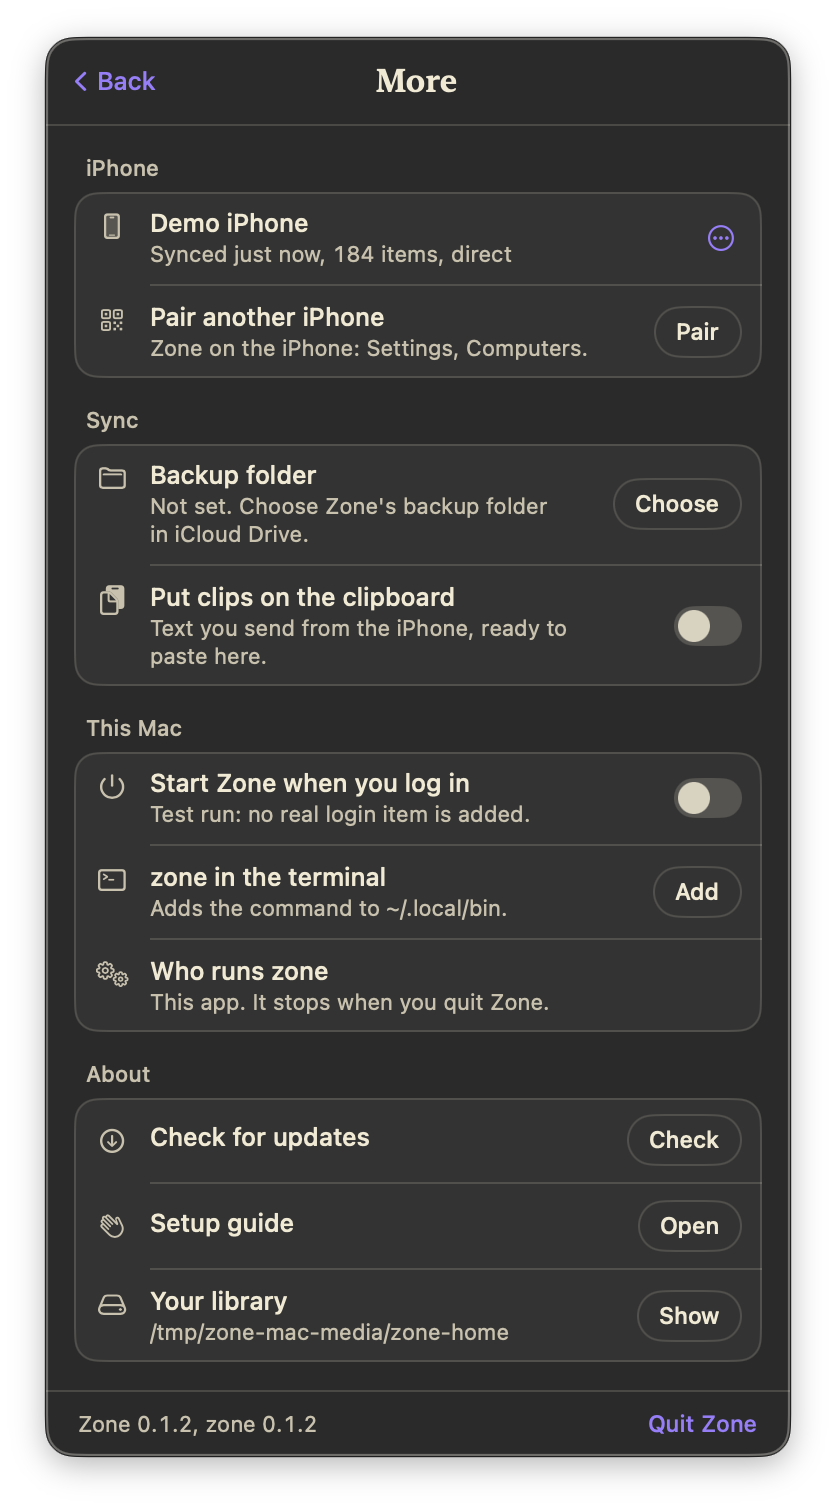
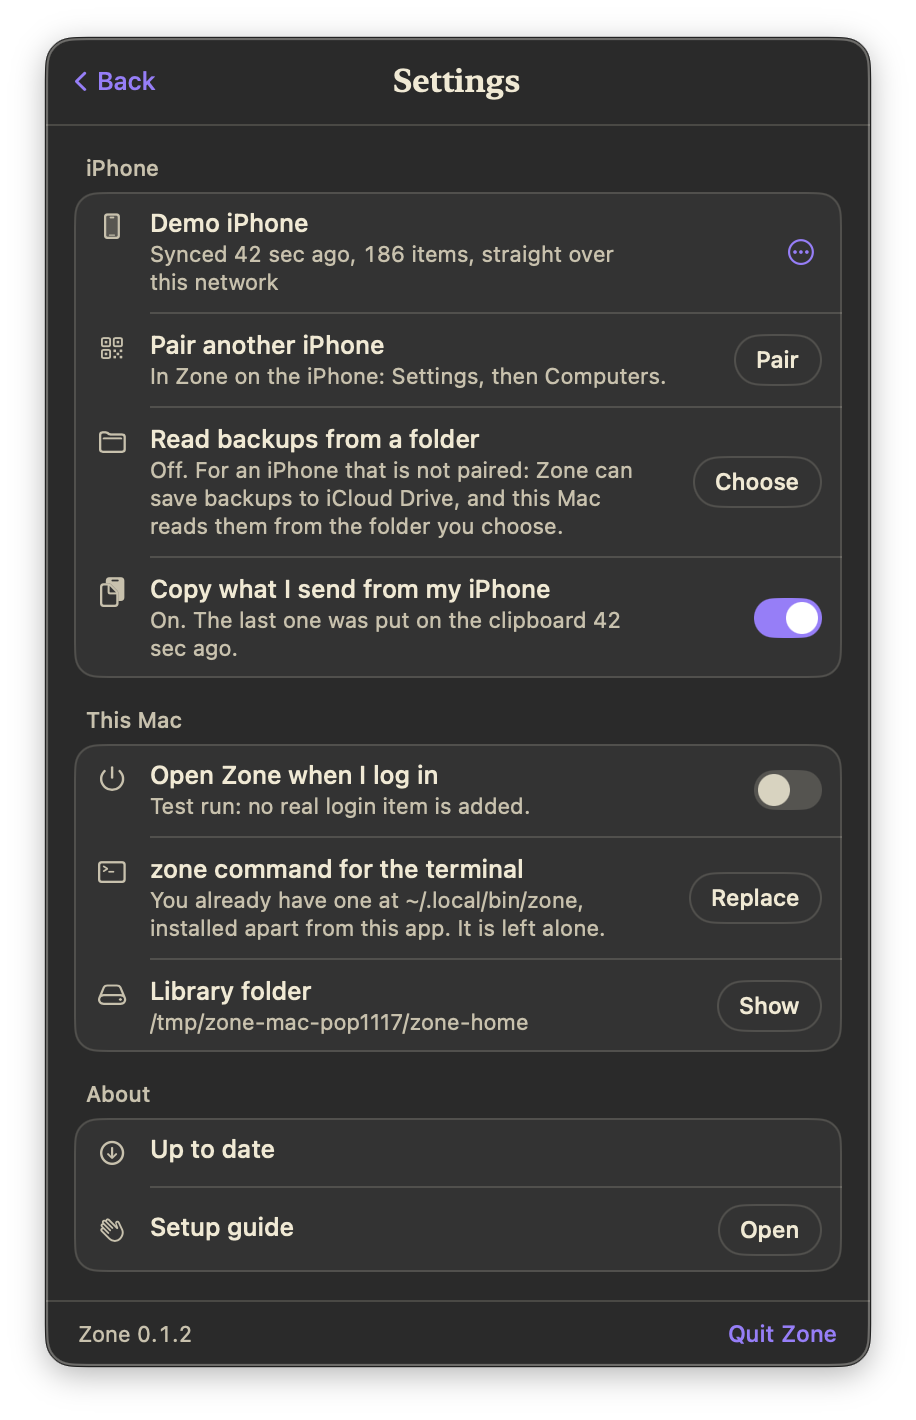
Zone for Mac: the README and its pictures follow the new menu, the guide says the same words as Settings, and a test run can stand in for GitHub
The guide's last page asks in Settings' words (open Zone when I log in, copy what I send from my iPhone). dev-sandbox.sh start --update-feed points the update check at an address that answers for GitHub, which is how "0.1.3 is available" and "could not check" were looked at.

diff --git a/mac/Zone/WelcomeView.swift b/mac/Zone/WelcomeView.swift
@@ -334,13 +334,13 @@ private struct DoneStep: View {
             StepHeading(
                 eyebrow: "All set",
                 title: "Zone lives in your menu bar",
-                detail: "Click the Z at the top of your screen to see what arrived, pair another phone or connect an agent.",
+                detail: "Click the Z at the top of your screen for your last meeting, your notes and the latest things you said.",
                 alignment: .center
             )
             .frame(maxWidth: 520)
             VStack(spacing: 0) {
                 Toggle(isOn: $startAtLogin) {
-                    option("power", "Start Zone when you log in", "So your phone can always reach this Mac.")
+                    option("power", "Open Zone when I log in", "So your iPhone can sync whenever this Mac is on.")
                 }
                 .toggleStyle(ZoneToggleStyle())
                 .padding(.vertical, 10)
@@ -356,7 +356,7 @@ private struct DoneStep: View {
                 if model.hasClips {
                     Hairline().padding(.leading, 44)
                     Toggle(isOn: $copyClips) {
-                        option("doc.on.clipboard", "Copy to this Mac's clipboard when a clip arrives", "Text you send from Zone on your iPhone, ready to paste here.")
+                        option("doc.on.clipboard", "Copy what I send from my iPhone", "Text you send to this Mac from Zone on the iPhone goes on the clipboard, ready to paste.")
                     }
                     .toggleStyle(ZoneToggleStyle())
                     .disabled(model.clipboardCopy?.available == false)

diff --git a/mac/README.md b/mac/README.md
@@ -4,7 +4,7 @@ A menu bar app that is the whole install of [zone](../README.md) on a Mac. Downl
 open it, scan one code with your iPhone. No terminal.
 
 <p align="center">
-  <img src="../docs/media/mac-popover.png" width="372" alt="The Zone menu bar window: synced just now, a clip with a Copy button, the latest dictations, and four buttons">
+  <img src="../docs/media/mac-popover.png" width="412" alt="The Zone menu bar window: which phone synced and when, a clip with a Copy button, the last meeting, three open notes, the latest items by kind, and four buttons">
 </p>
 
 It carries the `zone` program inside it and runs it for you. Everything zone does (receive
@@ -25,53 +25,93 @@ dot: zone is not running. An exclamation mark: something needs you.
   <img src="../docs/media/mac-menubar.png" width="600" alt="The menu bar icon's four faces on a dark and a light menu bar: running, receiving, not running, needs you">
 </p>
 
-**Click it.** The window keeps to what you open it for.
+**Click it.** The window is a place to work from, and says each thing once.
 
-- One line at the top: "Synced 2 min ago", "Receiving" while something arrives, "This
-  network only" while zone reconnects to the relay. Point at it for the rest: each phone,
-  how its last sync travelled, and how many items the library holds.
+- One line at the top: which phone synced last and when ("Demo iPhone, synced 2 min ago"),
+  "Receiving" while something arrives. Click it for the rest: how the last sync travelled,
+  what the library holds, and the last few things that happened (a clip that zone put on the
+  clipboard says ", copied"). Beside it, the eye (**Hide text**) covers the words for when
+  you are sharing your screen (it stays on until you turn it off, here and in the floating
+  window), and the window icon opens the floating window.
 - The newest clip, for a quarter of an hour after it arrives (see Clips below).
-- The latest four items. Click one to copy it. The eye beside them (**Hide text**) covers
-  the words, for when you are sharing your screen (it stays on until you turn it off, here
-  and in the floating window). The window icon beside it opens the floating window.
-- History, Flash, Agents and More. Agents: every AI app on this Mac with a switch, and under
-  each connected one a line that says what it may read. Click the line to choose:
-  everything, notes and meetings only, or all but keyboard dictations (what you typed by
-  voice into other apps). More: each paired phone (when it last synced, how many items,
-  direct or through the relay, and a menu to ask it to send everything again or forget it),
-  pairing another iPhone, the backup folder, clips on the clipboard, start at login, the
-  `zone` command, who runs zone, updates, the setup guide, and Quit.
+- Your last meeting: its title, when, how long. Click it and its transcript opens in History.
+- The newest three notes nobody has marked Done (on the history page, or an agent with
+  `mark_processed`), and a link to all of them in History.
+- The latest things you said, nine to twelve rows at a time and more on a scroll. Above them
+  All, Notes, Meetings, Dictations and Clips, each with how many the library holds: click one
+  to see only that kind. A row is one line with an icon for its kind; click it to copy, and
+  the time gives way to "Copied". What already has a place above (the clip, the meeting, the
+  three notes) is not listed a second time under All.
+- History, Flash, Agents and Settings.
 - Only when something needs you, a line at the top says what: no iPhone paired yet
   (**Pair**), something macOS has to allow (**Allow**, see below), or zone that keeps
   stopping (**Start again**, **Show the log**).
 
+**History, in a Zone window.** zone's history page, served by zone on this Mac, opens in a
+window of the app (**Open in browser** shows it in the browser instead). That is what lets
+the menu open it at a place: a meeting (`#/meeting/<id>`), the notes (`#/notes`). The links
+are made in one function, `PageRoutes` in `ZoneKit/Menu.swift`.
+
+**Agents.** Every AI app on this Mac once, however many profiles it has ("Claude Code: 7
+profiles, reads everything"), with a switch. Click its name for each profile as `zone mcp
+status` reports it: connected, starts another copy of zone, removed by you, not connected.
+Click the line under its name to choose what it may read: everything, notes and meetings
+only, or all but keyboard dictations (what you typed by voice into other apps). The apps
+that are not connected fold under one line.
+
+**Test** does not take zone's word for it. It reads from the app's own settings file which
+program and arguments that app would start (`AgentConfig`: JSON with or without comments,
+Codex's TOML, Hermes's YAML), starts exactly that with nothing of zone's in the environment,
+and asks it what every MCP client asks first (`initialize`, then `tools/list`). The answer
+is "Answers: 6 tools", or what went wrong in zone's own words. "zone on this Mac" at the
+foot is the same check with no app in between.
+
+An app whose entry starts a different copy of zone than the one that runs on this Mac says
+so, with **Use this one**: that is `zone mcp install <app>`, which points it at the running
+one and keeps what it may read. The zone that "runs on this Mac" is this app's own copy,
+unless a login item from the command line runs zone: then it is that program, so the panel
+says what `zone mcp status` says in a terminal.
+
+**Settings.** Each paired phone (when it last synced, how many items, and a menu to ask it to
+send everything again or forget it), pairing another, reading backups from a folder, copying
+what you send from the iPhone, opening Zone at login, the `zone` command, the library
+folder, updates, the setup guide, and Quit. The version is at the foot, once. Updates are
+one line: "Up to date", or "0.1.3 is available" with **Update** (which opens the download
+page), or "Could not check for updates" with **Try again**. A build that is newer than the
+latest published release is up to date. When GitHub's API is at its hourly limit for the
+network, the app asks GitHub's website instead.
+
 <p align="center">
-  <img src="../docs/media/mac-popover-more.png" width="372" alt="The More page: the paired iPhone, pairing another, the backup folder, clips on the clipboard, this Mac and updates">
+  <img src="../docs/media/mac-popover-more.png" width="412" alt="Settings: the paired iPhone, pairing another, reading backups from a folder, copying what you send from the iPhone, this Mac and updates">
   &nbsp;
-  <img src="../docs/media/mac-popover-hidden.png" width="372" alt="The main window with Hide text on: the words are covered">
+  <img src="../docs/media/mac-popover-hidden.png" width="412" alt="The main window with Hide text on: the words are covered">
 </p>
 <p align="center">
-  <img src="../docs/media/mac-agents-choose.png" width="372" alt="The Agents page: five AI apps with switches, and the three choices of what one may read">
+  <img src="../docs/media/mac-agents-choose.png" width="412" alt="The Agents page: five AI apps, sixteen profiles, each tested and answering with six tools, and the apps that are not connected folded under one line">
 </p>
 
 **Clips.** A clip is text you send from Zone on your iPhone to this Mac on purpose: what
 was on the phone's clipboard, something shared from another app, or something typed. When
 one arrives the Z pulses the way it does for anything arriving, and the clip leads the
 window: which phone, when, one line of it, and a Copy button. Clips also sit in the latest
-items with their own label (the one in the card is not listed twice), and the floating
-window has a filter for them. Hide text covers
-a clip like everything else.
+items with their own icon and their own kind above the list (the one in the card is not
+listed twice), and the floating window has a filter for them. Hide text covers a clip like
+everything else.
 
 <p align="center">
   <img src="../docs/media/mac-clip.gif" width="372" alt="A clip arrives: the window says Receiving and the clip appears at the top with a Copy button">
 </p>
 
-More > "Put clips on the clipboard" is `zone clipboard on`: with it
-on, a clip that was sent in the last two minutes is ready to paste here by the time you
-look up. It is off until you turn it on (the setup guide asks once), and nothing else ever
-touches your clipboard. The app shows no notification and asks for no permission.
+Settings > "Copy what I send from my iPhone" is `zone clipboard on`: with it on, a clip that
+was sent in the last two minutes is ready to paste here by the time you look up. The switch
+shows what zone itself reports, and once it is on the line under it says how to try it, and
+after that when the last clip was put on the clipboard (or that it could not be). It is off
+until you turn it on (the setup guide asks once), and nothing else ever touches your
+clipboard. The app shows no notification and asks for no permission. This was run end to
+end on 2026-11-17 with a throwaway zone under a throwaway launchd agent, the way the login
+item runs: a clip from the stand-in phone came back from `pbpaste`.
 
-**The floating window.** The window icon beside the latest items opens a small window that stays
+**The floating window.** The window icon at the top of the menu opens a small window that stays
 above your other windows and shows what you said as it arrives, with a search over the
 whole library and filters for dictations, notes and meetings. Clicking a row copies it
 without taking the keyboard away from the app you are working in.
@@ -94,10 +134,10 @@ and the version.
   <img src="../docs/media/mac-flash.png" width="700" alt="The Flash window: Zone's bar with Open in browser, and zone's Flash page with its three steps and the camera off">
 </p>
 
-**The setup guide**, the first time you open the app (and any time later, under More):
+**The setup guide**, the first time you open the app (and any time later, under Settings):
 welcome, get Zone on your iPhone, pair, connect your AI agents, done. The last page asks
-three things: start at login, add the `zone` command, and put clips on the clipboard as
-they arrive. Every step can be skipped, and closing the window half way keeps your place.
+three things: open Zone at login, add the `zone` command, and copy what you send from the
+iPhone. Every step can be skipped, and closing the window half way keeps your place.
 
 <p align="center">
   <img src="../docs/media/mac-welcome.png" width="640" alt="The welcome window">
@@ -140,7 +180,7 @@ Whether macOS lets Zone reach the local network has no API: the app asks the way
 suggests, with a UDP connection to another address on this network that sends nothing (it is
 ready at once when allowed, held back as "local network denied" when not). It does that only
 when it runs zone itself, first right after a pairing (the moment macOS's question makes
-sense), and after that every five minutes and when More opens. Camera access is read from
+sense), and after that every five minutes and when Settings opens. Camera access is read from
 AVFoundation and TCC's own preflight, the Files & Folders answer by reading the backup folder,
 and Login Items from `SMAppService`.
 
@@ -150,7 +190,7 @@ and Login Items from `SMAppService`.
 2. Open Zone. The guide walks through the rest.
 
 Pairing with a computer arrives with Zone's next iPhone update (Settings > Computers). Until
-then, the backup folder works with the Zone on the App Store today: More > Backup folder.
+then, the backup folder works with the Zone on the App Store today: Settings > Read backups from a folder.
 
 To remove it: quit Zone (that stops zone too), turn off "Start Zone when you log in" first if
 it was on, and delete the app. Your library stays in `~/Library/Application Support/Zone`.
@@ -171,9 +211,10 @@ The app owns the background service.
   - the app's own copy, left running because the app was force quit: adopted, and stopped
     when you quit as usual;
   - started at login by `zone install` (the launchd agent `wtf.zayd.zone.link`): left
-    alone, and it keeps running when you quit the app. More > Who runs zone says so, with
-    **Take over** (runs `zone uninstall`, which removes that login item, then starts the
-    app's own);
+    alone, and it keeps running when you quit the app. Settings then has a row, "Syncing is
+    started by the zone command", that says so and what changing it means, with **Use this
+    app** (runs `zone uninstall`, which removes that login item, then starts the app's
+    own). When this app does the syncing, which is the usual case, there is no such row;
   - started some other way, most likely `zone serve` in a terminal: the same, and taking
     over stops that process.
 - **When the login item is loaded but its zone is not running**, the app waits three
@@ -186,8 +227,8 @@ The app owns the background service.
   later; the app covers older versions and the ten seconds. (On 2026-11-16 a test step's
   `pkill -f "zone serve"`, meant for its own copy, stopped the real one, and with 0.1.1 it
   stayed stopped for five hours.)
-- **History and Flash wait for zone.** Clicked while zone is starting, History opens once it
-  runs, and the Flash window opens at once and says "Starting zone" until it can load.
+- **History and Flash wait for zone.** Clicked while zone is starting or down, each window
+  opens at once and says "Starting zone" until it can load.
 - **The app's own copy of zone** lives at `~/Library/Application Support/Zone/bin/zone`. On
   every launch the app makes sure it is the same program as the one inside the app, and
   replaces it when the app was updated. It is never written into while it runs: the new file
@@ -211,7 +252,7 @@ The app owns the background service.
   everything and the app says so). Clips are a fourth kind: an agent that was limited to
   dictations, notes and meetings before clips existed stays limited to those, and "notes
   and meetings only" leaves clips out.
-- **The `zone` command** is offered, never forced: More > zone in the terminal. It is a link
+- **The `zone` command** is offered, never forced: Settings > zone command for the terminal. It is a link
   in the first writable folder on your PATH out of `~/.local/bin`, `~/bin`,
   `/opt/homebrew/bin` and `/usr/local/bin` (the last one asks for your password when it has
   to). If another `zone` is already on your PATH, the app says where and leaves it alone
@@ -352,10 +393,17 @@ mac/scripts/dev-sandbox.sh cmd popover "snap:popover=/tmp/popover.png"
 mac/scripts/dev-sandbox.sh cmd "click:popover=314,328"      # a click, in points from the window's top left
 mac/scripts/dev-sandbox.sh cmd flash "snap:flash=/tmp/flash.png"   # the Flash window
 mac/scripts/dev-sandbox.sh cmd "flashjs:/tmp/answer.txt=return document.title"  # a script in its page
+mac/scripts/dev-sandbox.sh cmd segment:note details:on                    # the menu: one kind, the details open
+mac/scripts/dev-sandbox.sh cmd popover:agents test:zone test:cursor agent:claude-code   # check agents, open one's profiles
+mac/scripts/dev-sandbox.sh cmd history:notes "snap:history=/tmp/history.png"   # History at a place (also history:meeting=ID)
 mac/scripts/dev-sandbox.sh cmd guide:camera "snap:guide=/tmp/card.png"    # the permission card
 mac/scripts/dev-sandbox.sh cmd "pretend:localNetwork=denied" popover      # what a refusal looks like
 mac/scripts/dev-sandbox.sh stop
 ```
+
+`snapdrawn:` in place of `snap:` has the app draw the window itself, for a run behind the
+lock screen, where the window server hands back an empty picture. `start --update-feed URL`
+points the update check at an address that stands in for GitHub.
 
 `start --mock-camera` gives the Flash window WebKit's stand-in camera, so the whole camera
 path runs (the page asks, Zone allows the camera and refuses the microphone, pictures reach
@@ -373,12 +421,12 @@ this file was taken this way.
 
 | | |
 | --- | --- |
-| `ZoneKit/` | A Swift package with everything that is not a view, and its tests: what zone prints as Swift values (`Models`, `Agents`, `Clips`), running zone (`ZoneClient`), the event feed (`Events`, `ActivitySources`), who runs the service and the app's copy of zone (`Daemon`), the `zone` command and update check (`CommandLink`), where files are (`ZoneEnvironment`). |
+| `ZoneKit/` | A Swift package with everything that is not a view, and its tests: what zone prints as Swift values (`Models`, `Agents`, `Clips`), what the menu shows and the links into the history page (`Menu`), reading an agent's settings and checking that what it starts answers (`AgentCheck`), running zone (`ZoneClient`), the event feed (`Events`, `ActivitySources`), who runs the service and the app's copy of zone (`Daemon`), the `zone` command and update check (`CommandLink`), where files are (`ZoneEnvironment`). |
 | `Zone/AppModel.swift` | The one object the views read and call. |
 | `Zone/StatusItemController.swift`, `MenuBarIcon.swift` | The Z and the window under it. |
 | `Zone/PopoverView.swift`, `SharedPanels.swift` | The popover's pages, and the pairing and agents panels the guide also uses. |
 | `Zone/WelcomeView.swift`, `FloatingView.swift` | The guide and the floating window. |
-| `Zone/FlashWindow.swift` | Flash in a Zone window: the web view, the camera, the bar above the page. |
+| `Zone/FlashWindow.swift`, `HistoryWindow.swift` | Flash and History in Zone windows: the web view, the bar above the page, and for Flash the camera. |
 | `Zone/PermissionGuide.swift`, `LocalNetworkProbe.swift` | The card beside System Settings (from Hex) and asking whether the local network is allowed. What can be tested without windows (which list, where the card goes, when to bring the page back) is `ZoneKit/Permissions.swift`. |
 | `Zone/Theme.swift`, `Wave.swift`, `QRCode.swift` | The look, taken from the iPhone app: warm paper and ink, one purple accent, a serif wordmark, hard-edged shadows, the flowing wave. |
 | `project.yml` | The Xcode project, generated with `xcodegen generate`. |
@@ -397,6 +445,10 @@ this file was taken this way.
   app takes over.
 - Updates are a check against the latest GitHub release and a link to it. The app does not
   update itself.
+- The menu's links into the history page (`#/meeting/<id>`, `#/notes`) are the routes
+  planned for the page. A page that does not know them yet opens as it always did.
+- "Open notes" are the notes not marked Done, which is the flag an agent sets with
+  `mark_processed`: an agent that works through notes closes them here too.
 - The Developer ID certificate exists (made on 2026-11-16). A notarized disk image has not
   yet been opened on a second Mac.
 - Flash in the window was run end to end with WebKit's stand-in camera, not yet with this
